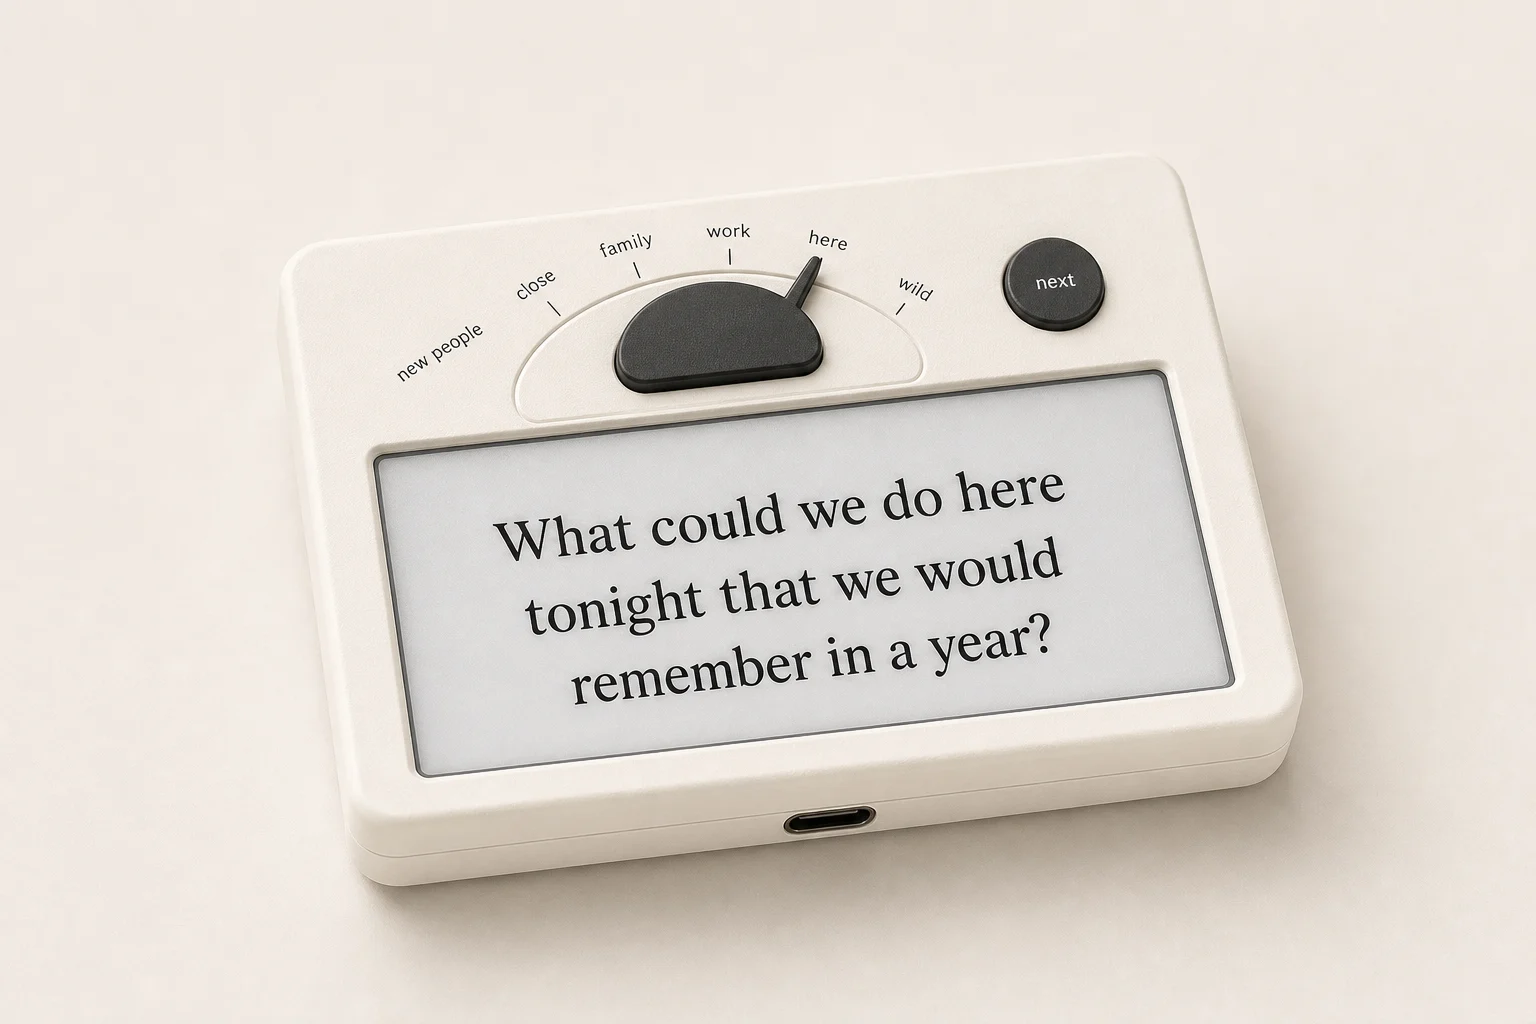
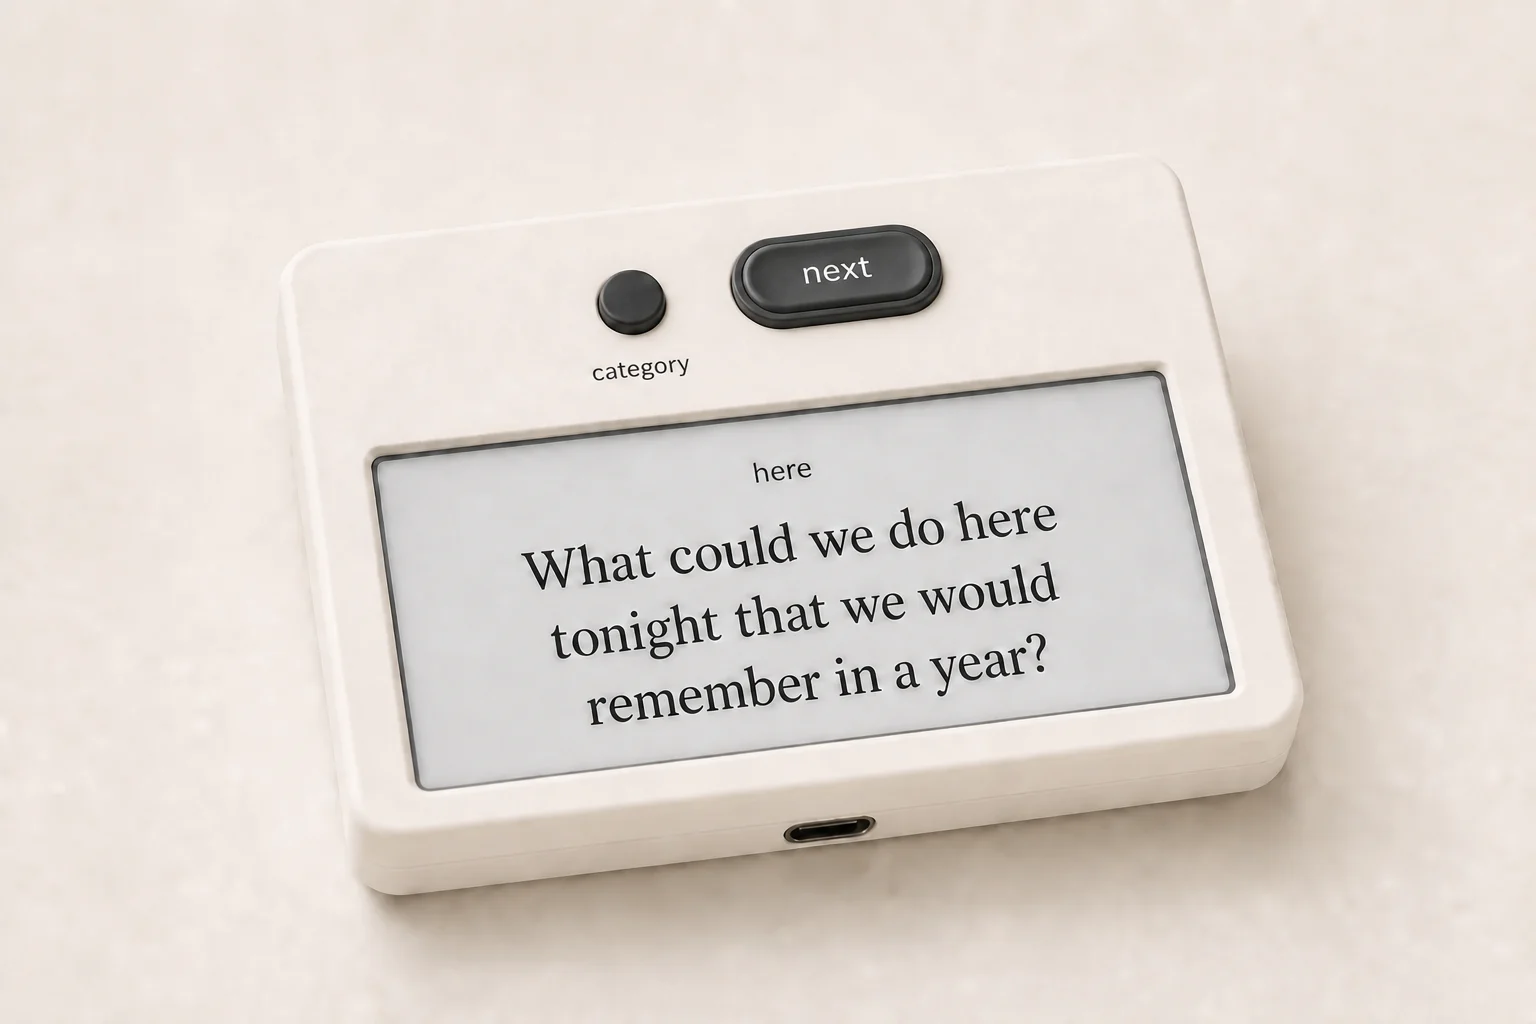
docs(device): clarify control hierarchy

diff --git a/docs/device_prototype.md b/docs/device_prototype.md
@@ -47,8 +47,10 @@ depth 3 stays out of normal playback.
 ## Proposed form
 
 The face has three elements: e-paper, Category, and Next. The two buttons sit
-close together above the display and use the same shape and travel. Their
-printed labels identify the action; category names are printed by the display.
+close together above the display, but they do not have equal visual weight.
+Category is a small, nearly flush round button with its label printed on the
+shell. Next is a larger, slightly raised rounded pill with a shallow concave
+top and its label on the cap. Category names are printed by the display.
 
 | Property | Study target | Reason |
 |---|---:|---|
@@ -56,8 +58,8 @@ printed labels identify the action; category names are printed by the display.
 | Mass | 80–100 g | Resists one-handed button presses |
 | Orientation | landscape, 3° face incline | Keeps the device readable without becoming a wedge |
 | Display | 2.13″ e-paper behind a matte protective lens | Keeps the category and question visible without power |
-| Category | low-profile round button, left | Advances one category per accepted press |
-| Next | matching low-profile round button, right | Draws one question; no press-duration vocabulary |
+| Category | small, nearly flush round button, left | Secondary action used only when changing context |
+| Next | larger, raised rounded-pill button, right | Frequent primary action; easy to find without reading both labels |
 | Display label | active category in small type above the question | Avoids a printed category ring and supports future languages |
 | Port | centered USB-C on the lower edge | Absent from the main tabletop view |
 | Finish | warm-ivory matte shell; two charcoal buttons | Matches the paper-like website |
@@ -90,8 +92,10 @@ to obtain the category from the DIP switch after every boot.
 
 ## Candidate controls
 
-Use the same sealed tactile switch for both actions so force, travel, height,
-and enclosure detailing match.
+Use the same sealed tactile switch under both actions so force, travel, and
+electrical behavior match. Different external caps create the hierarchy: the
+Category cap is small and low; the Next cap is wider, slightly raised, and
+shallowly concave.
 
 **C&K KSC321GLFS**: IP67 SPST-NO tact switch, 6.2 × 6.2 mm footprint,
 3.5 mm actuator height, 2 N force, and 300,000-cycle rating. Each switch needs
@@ -116,9 +120,9 @@ Start at 16 mm and earn any reduction through CAD.
 | Bottom shell and clearance | 1.8–2.2 mm |
 
 Put both switches in the same control area above the panel and carry button
-loads into the top shell with cap stops. Support the e-paper glass continuously
-around its perimeter. Use four elastomer feet positioned to resist either
-button press.
+loads into the top shell with cap stops sized for their different caps. Support
+the e-paper glass continuously around its perimeter. Use four elastomer feet
+positioned to resist either button press.
 
 Moving category names onto the display removes the replaceable bezel and its
 English-only geometry. It does not solve every language problem: the category
@@ -211,7 +215,9 @@ Run table sessions without explaining the controls first. Check:
 - Wild is chosen deliberately rather than mistaken for Random;
 - the e-paper category line is readable from ordinary seats;
 - the device does not slide, tip, or need to be picked up;
-- the two adjacent buttons do not cause frequent wrong presses.
+- the small Category control is still easy to operate deliberately;
+- the larger Next control is identifiable without reading both labels;
+- the adjacent controls do not cause frequent wrong presses.
 
 If category choice takes more attention than rejecting a poor question with
 Next, revise the cycling interaction before another PCB revision. EVT then

diff --git a/docs/decisions.md b/docs/decisions.md
@@ -356,3 +356,19 @@ The current USB breadboard and firmware are not changed by this decision. They
 continue to use the six-way DIP switch as six one-hot category inputs and one
 Next button until a second button is available. The input mapping, retained
 category state, state machine, and tests change together in a later commit.
+
+## 2026-08-05: Give Next physical priority over Category
+
+The two controls are adjacent but intentionally unequal. Category uses a small,
+nearly flush round cap with its label printed on the shell. Next uses a larger,
+slightly raised rounded-pill cap with a shallow concave top and its label on the
+cap. Both sit over the same tactile-switch part.
+
+Next is the repeated conversational action; Category is changed occasionally.
+Size, height, and shape communicate that frequency without adding an accent
+color, icon, light, or different switch behavior.
+
+Accepted cost: the two cap geometries need separate tooling and overload stops.
+The physical model must confirm that Category remains easy to press
+deliberately and that the larger Next cap does not dominate the face or cause
+accidental presses.

diff --git a/hardware/pcb/BOM.md b/hardware/pcb/BOM.md
@@ -19,8 +19,8 @@ BOM. For development-board and physical-model purchases, use
 | BT1 | Protected 503035 LiPo, 500 mAh | wire/JST-PH | supplier qualification open | 1 | 4–6 EUR |
 | Q1, L1, D1, D2 | SSD1680 boost circuit | reference packages | per Good Display design | 1 set | 0.50 EUR |
 | — | USB ESD/input protection, VBUS sense, e-paper load switch, switched battery sense, passives, test pads | mixed | open | — | TBD |
-| MECH1 | External Category cap with overload stop | custom | open | 1 | TBD |
-| MECH2 | External Next cap with overload stop | custom | open | 1 | TBD |
+| MECH1 | Small round Category cap with overload stop | custom | open | 1 | TBD |
+| MECH2 | Larger rounded-pill Next cap with shallow concave top and overload stop | custom | open | 1 | TBD |
 
 The OLED, OLED rail, OLED load switch, EC11 encoder, encoder push switch, rotary
 selector, pointer knob, and printed selector bezel are deleted.

diff --git a/hardware/case/README.md b/hardware/case/README.md
@@ -10,8 +10,9 @@ manufacturing dimension.
 Envelope requirements from the product design ([docs/design.md](../../docs/design.md)):
 
 - Pocketable; the e-paper window is the face. The device lies flat mid-table like a place card.
-- Two adjacent low-profile buttons, Category on the left and Next on the right.
-  Each cap needs an overload stop independent of the PCB.
+- Two adjacent buttons: a small, nearly flush round Category cap on the left
+  and a larger, raised rounded-pill Next cap on the right. Each cap needs an
+  overload stop independent of the PCB.
 - The active category is printed on the e-paper above the question; no category
   legend is printed on the shell.
 - USB-C on the bottom edge; no visible LEDs on the tabletop faces.

diff --git a/docs/design.md b/docs/design.md
@@ -29,9 +29,9 @@ notifications, or reason to be checked between questions.
 
 ## The complete device interaction
 
-The top face has adjacent Category and Next buttons and one e-paper display.
-The active category is printed on the e-paper rather than around a physical
-selector.
+The top face has a small Category button, a larger primary Next button, and one
+e-paper display. The active category is printed on the e-paper rather than
+around a physical selector.
 
 | Input | Action | Feedback |
 |---|---|---|
